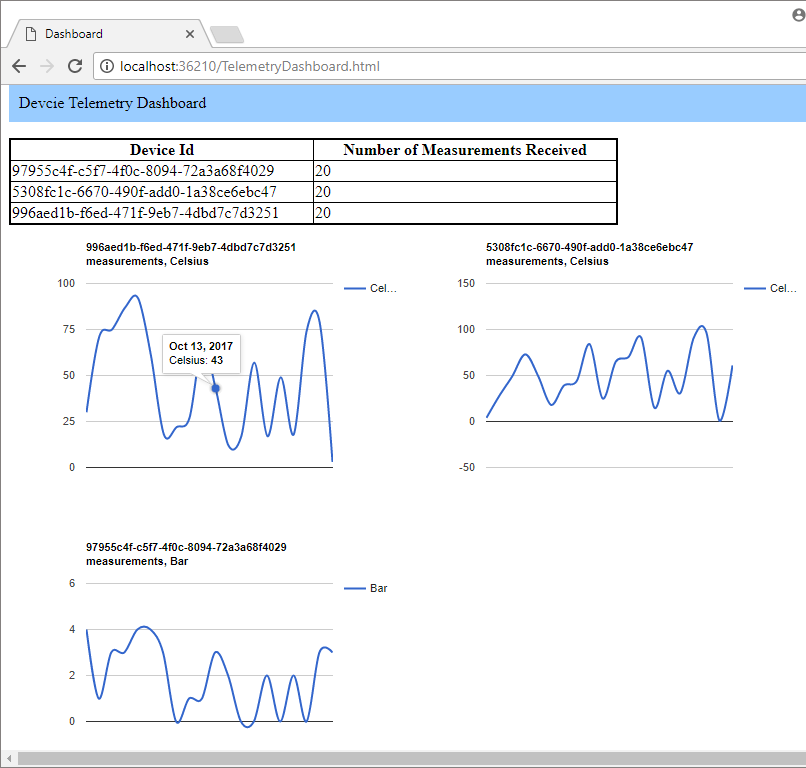
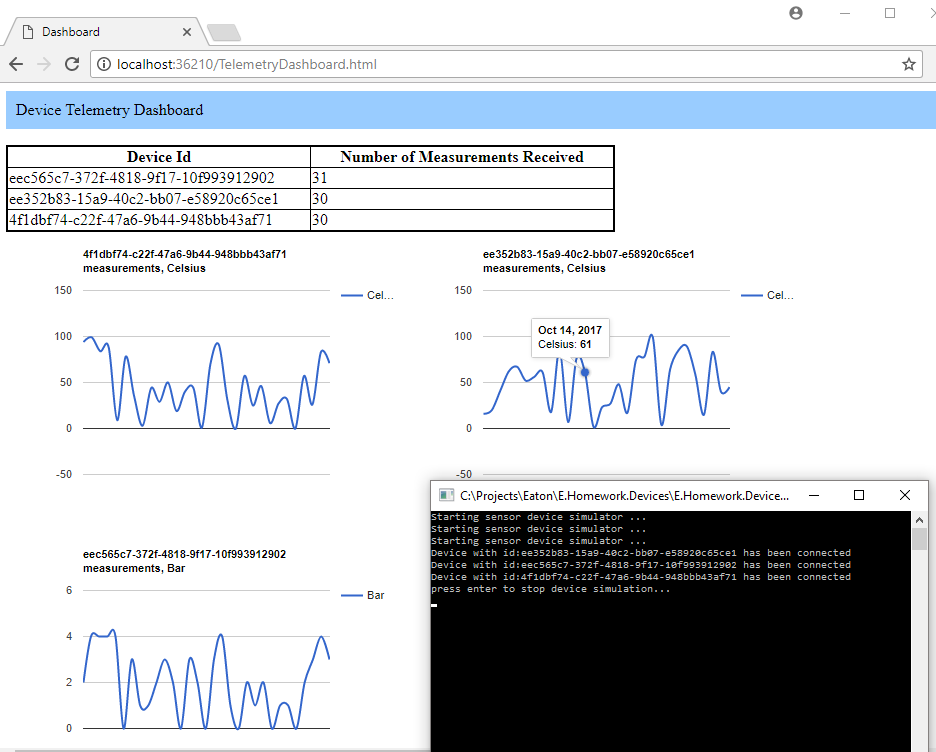
add travis build option

diff --git a/E.Homework.Devices.Web/TelemetryDashboard.html b/E.Homework.Devices.Web/TelemetryDashboard.html
@@ -24,8 +24,6 @@
     </style>
 </head>
 
-
-
 <body>
     <script type="text/javascript">
         google.charts.load('current', { 'packages': ['corechart'] });
@@ -54,8 +52,7 @@
             var options = {
                 title: deviceId + ' measurements, ' + Units,
                 curveType: 'function',
-                dateFormat: 'dd.MM.yy hh:mm',
-                //legend: { position: 'bottom' }
+                dateFormat: 'dd.MM.yy hh:mm',                
             };
 
             if (dashboardItems.get(deviceId) == null) {
@@ -65,16 +62,14 @@
             chart.draw(dataTable, options);
         };
 
-        function Update(deviceId, date, value){
+        function Update(deviceId, date, value, messageCount){
             var dashboardItem = dashboardItems.get(deviceId);
             dashboardItem.dataTable.addRow([date, value]);
             dashboardItem.googleChart.draw(dashboardItem.dataTable, dashboardItem.options);
 
-            // update summery here
-            var val = summaryTableData.get(deviceId);
-            summaryTableData.set(deviceId, (val + 1 ));
-
             
+            var val = summaryTableData.get(deviceId);
+            summaryTableData.set(deviceId, messageCount);            
         }       
 
         $(function () {
@@ -92,8 +87,8 @@
                 addTable();
             };
 
-            telemetryHub.client.publishData = function (deviceId, data, units) {
-                Update(deviceId, new Date(), Number(data));
+            telemetryHub.client.publishData = function (deviceId, value, messageCount) {
+                Update(deviceId, new Date(), Number(value), Number(messageCount));
                 addTable();
             }
         });
@@ -146,7 +141,7 @@
     </script>
 
     <div class="topNavBar">
-        Devcie Telemetry Dashboard
+        Device Telemetry Dashboard
     </div>
     <p></p>
     <table id="summaryTable"></table>

diff --git a/E.Homework.Devices.Business/DeviceDataCollection/DeviceDataController.cs b/E.Homework.Devices.Business/DeviceDataCollection/DeviceDataController.cs
@@ -5,22 +5,27 @@ using System.Diagnostics;
 
 namespace E.Homework.Devices.Business.DeviceDataCollection
 {
+    /// <summary>
+    /// Main device data/telemetry controller
+    /// </summary>
     public sealed class DeviceDataController
-    {
+    {        
         private Action<string,string> _onDeviceRegisteredAction;
-        private Action<string,string> _onDeviceDataPublishedAction;
+        private Action<string,string,string> _onDeviceDataPublishedAction;
 
-        public static readonly ConcurrentDictionary<string, TelemetryDeviceStatistics> _devices = 
-            new ConcurrentDictionary<string, TelemetryDeviceStatistics>();
+        static object lockobj = new object();
+
+        public static readonly ConcurrentDictionary<string, TelemetryDeviceSummary> _devices = 
+            new ConcurrentDictionary<string, TelemetryDeviceSummary>();
 
         public DeviceDataController(Action<string,string> onDeviceRegirsteredAction, 
-                                        Action<string,string> onDeviceDataPublishedAction)
+                                        Action<string,string,string> onDeviceDataPublishedAction)
         {
             _onDeviceRegisteredAction = onDeviceRegirsteredAction;
             _onDeviceDataPublishedAction = onDeviceDataPublishedAction;
         }
 
-        public void UpdateStatistics(string deviceId, string data, string units)
+        public void PublishData(string deviceId, string data, string units)
         {
             if (!_devices.ContainsKey(deviceId))
             {
@@ -30,20 +35,24 @@ namespace E.Homework.Devices.Business.DeviceDataCollection
             _devices[deviceId].PublishedMessagesCount++;
             _devices[deviceId].LastSeen = DateTime.Now;
 
-            Debug.WriteLine(deviceId + " " + data + " , count - " + _devices[deviceId].PublishedMessagesCount);
-
-            _onDeviceDataPublishedAction(deviceId, data);
+            if (_onDeviceDataPublishedAction != null)
+            {
+                _onDeviceDataPublishedAction(deviceId, data, _devices[deviceId].PublishedMessagesCount.ToString());
+            }
 
         }
 
         void RegisterDevice(string deviceId,string units)
         {
-            var success = _devices.TryAdd(deviceId, new TelemetryDeviceStatistics() { LastSeen = DateTime.Now });
+            var success = _devices.TryAdd(deviceId, new TelemetryDeviceSummary() { LastSeen = DateTime.Now });
             if (success)
             {
                 if (_onDeviceRegisteredAction != null)
                 {
-                    _onDeviceRegisteredAction(deviceId, units);
+                    lock (lockobj)
+                    {
+                        _onDeviceRegisteredAction(deviceId, units);
+                    }
                 }
             }
         }

diff --git a/E.Homework.Devices.Web/Hubs/TelemetryHub.cs b/E.Homework.Devices.Web/Hubs/TelemetryHub.cs
@@ -1,15 +1,11 @@
-using E.Homework.Devices.Business.Device;
-using E.Homework.Devices.Business.DeviceDataCollection;
+using E.Homework.Devices.Business.DeviceDataCollection;
 using Microsoft.AspNet.SignalR;
-using System;
-using System.Collections.Concurrent;
-using System.Collections.Generic;
-using System.Linq;
-using System.Web;
 
 namespace E.Homework.Devices.Web.Hubs
 {
-    
+    /// <summary>
+    /// SignalR hub for device telemetry publishing
+    /// </summary>
     public class TelemetryHub : Hub
     {
         private readonly DeviceDataController _deviceDataController;
@@ -17,22 +13,19 @@ namespace E.Homework.Devices.Web.Hubs
         public TelemetryHub()
         {
             _deviceDataController = new DeviceDataController(
-                (newDeviceId, units) => 
+                (newDeviceId, units) =>
                         {
                             Clients.All.updateDashboard(newDeviceId, units);
-                        }, 
-                (deviceId, data) => 
+                        },
+                (deviceId, data, messageCount) =>
                         {
-                            Clients.All.publishData(deviceId, data);
+                            Clients.All.publishData(deviceId, data, messageCount);
                         });
         }
 
-        public void Publish(string id, string data, string units)
+        public void Publish(string deviceId, string data, string units)
         {
-            // TODO: rename UpdateStatistics 
-            _deviceDataController.UpdateStatistics(id, data, units);
-
-            Clients.All.broadcastMessage(id, data);
-        }
+            _deviceDataController.PublishData(deviceId, data, units);
+        }            
     }
 }

diff --git a/E.Homework.Devices.Business/Device/ConnectedDevice.cs b/E.Homework.Devices.Business/Device/ConnectedDevice.cs
@@ -1,24 +1,24 @@
 using E.Homework.Devices.Data;
 using Microsoft.AspNet.SignalR.Client;
 using System;
-using System.Collections.Generic;
-using System.Linq;
-using System.Text;
 using System.Threading.Tasks;
-
 
 namespace E.Homework.Devices.Business.Device
 {
+    /// <summary>
+    /// Base implementation for web connected device
+    /// </summary>
     public abstract class ConnectedDevice : ITelemetryDevice
     {
+        public string Id { get; set; }
         private readonly HubConnection _hubConnection;
-        private IHubProxy _telemetryProxy;
+        private IHubProxy _telemetryProxy;        
 
         public ConnectedDevice(string connectionString)
         {
             _hubConnection = new HubConnection(connectionString);
-        }
-        public string Id { get; set; }
+            Console.WriteLine("Starting sensor device simulator ... ");
+        }       
 
         public abstract TelemetryReading ReadData();
 
@@ -29,15 +29,9 @@ namespace E.Homework.Devices.Business.Device
 
         public async Task Connect()
         {
-            _hubConnection.StateChanged += _hubConnection_StateChanged;
-
             _telemetryProxy = _hubConnection.CreateHubProxy("TelemetryHub");
             await _hubConnection.Start();
-        }
-
-        private void _hubConnection_StateChanged(StateChange obj)
-        {
-            Console.WriteLine(obj.NewState);
-        }
+            System.Console.WriteLine(string.Format("Device with id:{0} has been connected", Id));
+        }       
     }
 }

diff --git a/E.Homework.Devices.Console/Program.cs b/E.Homework.Devices.Console/Program.cs
@@ -15,22 +15,25 @@ namespace E.Homework.Devices.Console
         {
             var connString = ConfigurationManager.AppSettings["publishingConnectionString"];
 
+            // create few sensor device simulator devices
             var sensor2 = new TemperatureSensorSimulator(connString);
             var sensor1 = new AirPressureSensorSimulator(connString);           
             var sensor3 = new TemperatureSensorSimulator(connString);
 
+            // assign some random ids
             sensor1.Id = Guid.NewGuid().ToString();
             sensor2.Id = Guid.NewGuid().ToString();
             sensor3.Id = Guid.NewGuid().ToString();           
 
+            // connect to web hub
             var con = sensor1.Connect();
             var con2 = sensor2.Connect();
             var con3 = sensor3.Connect();
-
             con.Wait();
             con2.Wait();
             con3.Wait();
 
+            // cansellation feature
             var cancellationTokenSource = new CancellationTokenSource();
 
             new Task(() =>
@@ -46,10 +49,11 @@ namespace E.Homework.Devices.Console
             }).Start();
 
 
-            System.Console.WriteLine("press enter to stop device simulation...");
+            System.Console.WriteLine("Press enter to stop device simulation...");
             System.Console.ReadLine();
 
             cancellationTokenSource.Cancel();
+            System.Console.WriteLine("Press enter to exit");
 
             System.Console.ReadLine();
         }

diff --git a/E.Homework.Devices.Business/Device/TelemetryDeviceSummary.cs b/E.Homework.Devices.Business/Device/TelemetryDeviceSummary.cs
@@ -1,12 +1,11 @@
 using System;
-using System.Collections.Generic;
-using System.Linq;
-using System.Text;
-using System.Threading.Tasks;
 
 namespace E.Homework.Devices.Business.Device
 {
-    public class TelemetryDeviceStatistics
+    /// <summary>
+    /// Used for dashboard device statistic representation
+    /// </summary>
+    public class TelemetryDeviceSummary
     {
         public int PublishedMessagesCount { get; set; }
         public DateTime LastSeen { get; set; }

diff --git a/E.Homework.Devices.Business/Device/Sensor/AirPressureSensorSimulator.cs b/E.Homework.Devices.Business/Device/Sensor/AirPressureSensorSimulator.cs
@@ -7,10 +7,14 @@ using E.Homework.Devices.Data;
 
 namespace E.Homework.Devices.Business.Device.Sensor
 {
+    /// <summary>
+    /// Air pressure sensor device simulator
+    /// </summary>
     public class AirPressureSensorSimulator : ConnectedDevice
     {
         public AirPressureSensorSimulator(string connectionString) : base(connectionString)
         {
+            
         }
 
         public override TelemetryReading ReadData()

diff --git a/E.Homework.Devices.Business/Device/ITelemetryDevice.cs b/E.Homework.Devices.Business/Device/ITelemetryDevice.cs
@@ -1,12 +1,11 @@
-using System;
-using System.Collections.Generic;
-using System.Linq;
-using System.Text;
-using System.Threading.Tasks;
+using System.Threading.Tasks;
 
 namespace E.Homework.Devices.Business.Device
 {
-    interface ITelemetryDevice
+    /// <summary>
+    /// Top level device interface
+    /// </summary>
+    public interface ITelemetryDevice
     {
         string Id { get; set; }
 

diff --git a/E.Homework.Devices.Business/Device/Sensor/TemperatureSensorSimulator.cs b/E.Homework.Devices.Business/Device/Sensor/TemperatureSensorSimulator.cs
@@ -7,6 +7,9 @@ using System.Threading.Tasks;
 
 namespace E.Homework.Devices.Business.Device.Sensor
 {
+    /// <summary>
+    /// Temperature sensor device simulator
+    /// </summary>
     public class TemperatureSensorSimulator : ConnectedDevice
     {
         public TemperatureSensorSimulator(string connectionString) : base(connectionString)

diff --git a/E.Homework.Devices.Data/TelemetryReading.cs b/E.Homework.Devices.Data/TelemetryReading.cs
@@ -6,7 +6,10 @@ using System.Threading.Tasks;
 
 namespace E.Homework.Devices.Data
 {
-    public class TelemetryReading
+    /// <summary>
+    /// Device measurement data presentation
+    /// </summary>
+    public sealed class TelemetryReading
     {
         public double Value { get; set; }
         public string Units { get; set; }
